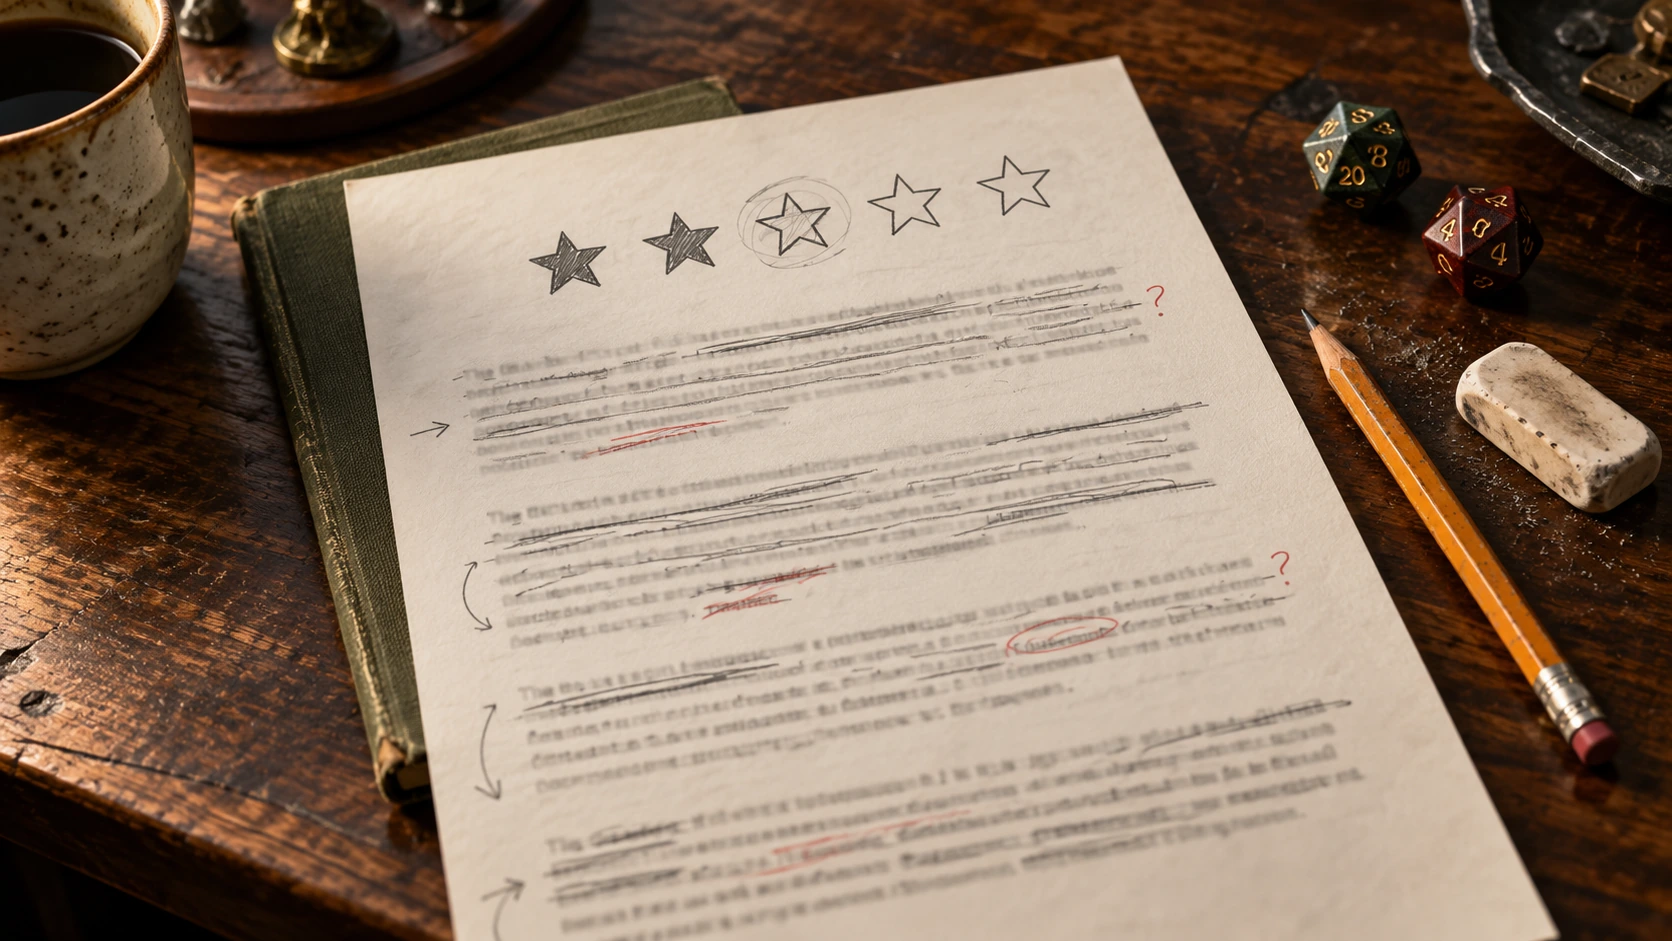
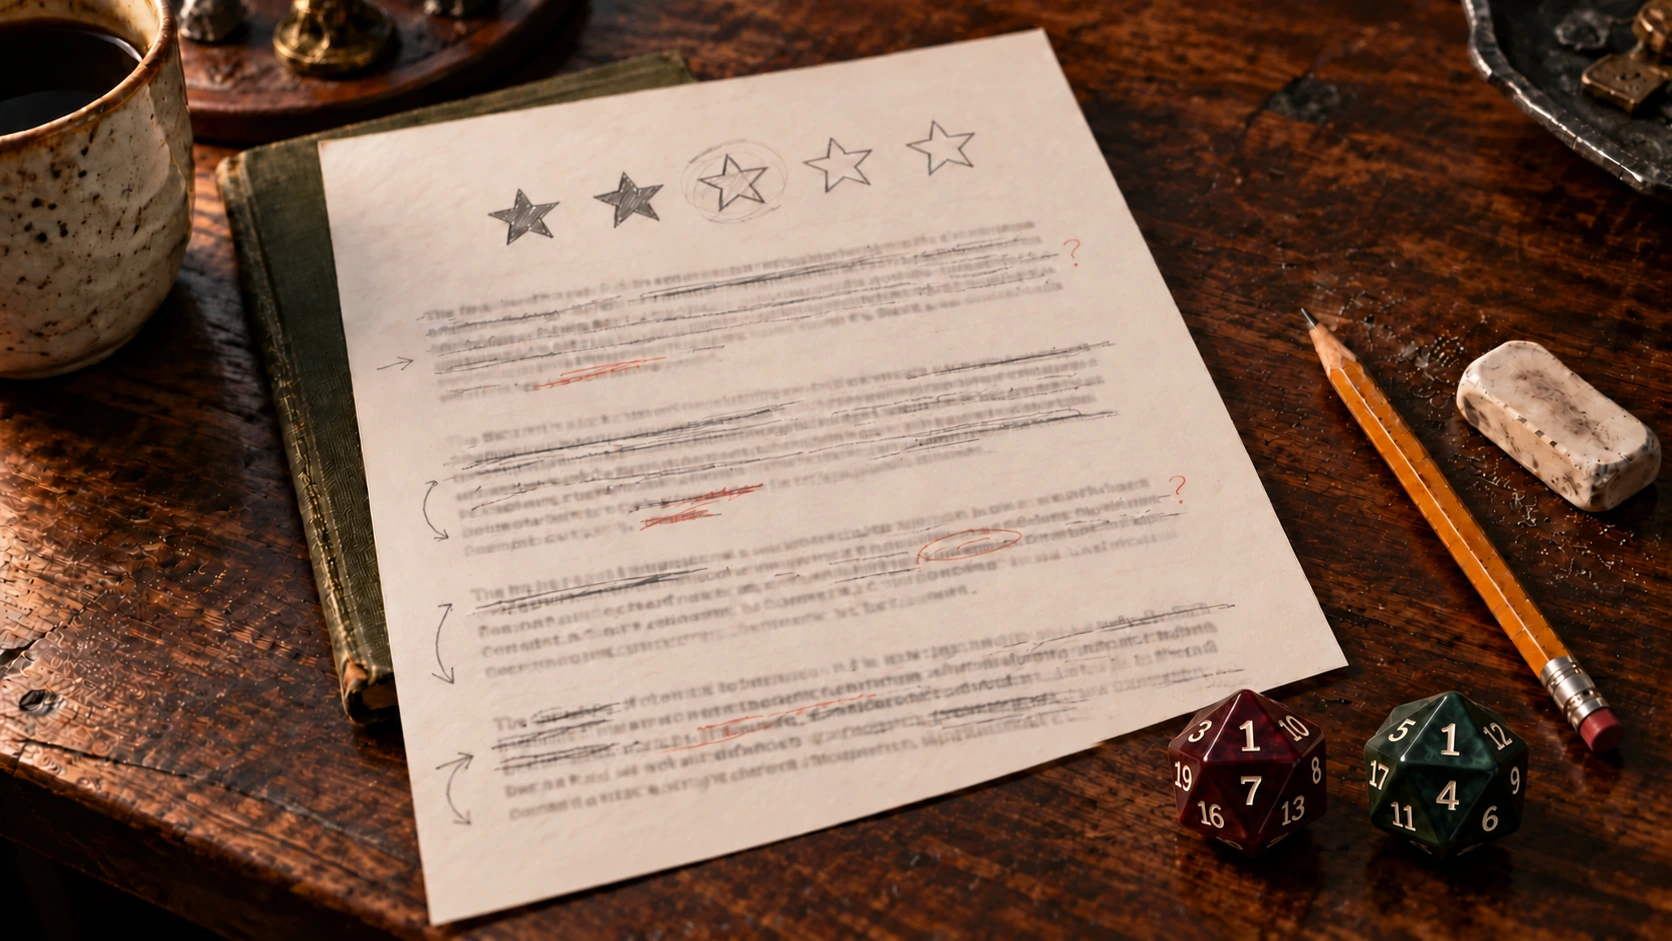
Refine review cover dice and critical-failure teaser

diff --git a/src/content/blog/2026/11-02/learning-to-write-reviews.md b/src/content/blog/2026/11-02/learning-to-write-reviews.md
@@ -1,9 +1,9 @@
 ---
 title: "My first review went a bit sideways"
 description: "What posting my first Fallout review on Reddit taught me about AI disclaimers, explaining criticism, and the limits of star ratings."
-teaser: "How did my Fallout review end up needing its own review?"
+teaser: "Did I just roll a natural 1 on my first RPG review?"
 coverImage: "./assets/cover.webp"
-socialImageAlt: "An annotated review draft with five pencilled stars, two filled, beside an eraser and RPG dice."
+socialImageAlt: "An annotated review draft with five pencilled stars and two d20 dice in the foreground, both showing 1."
 publishDate: 2026-11-02
 authors:
   - ludo
